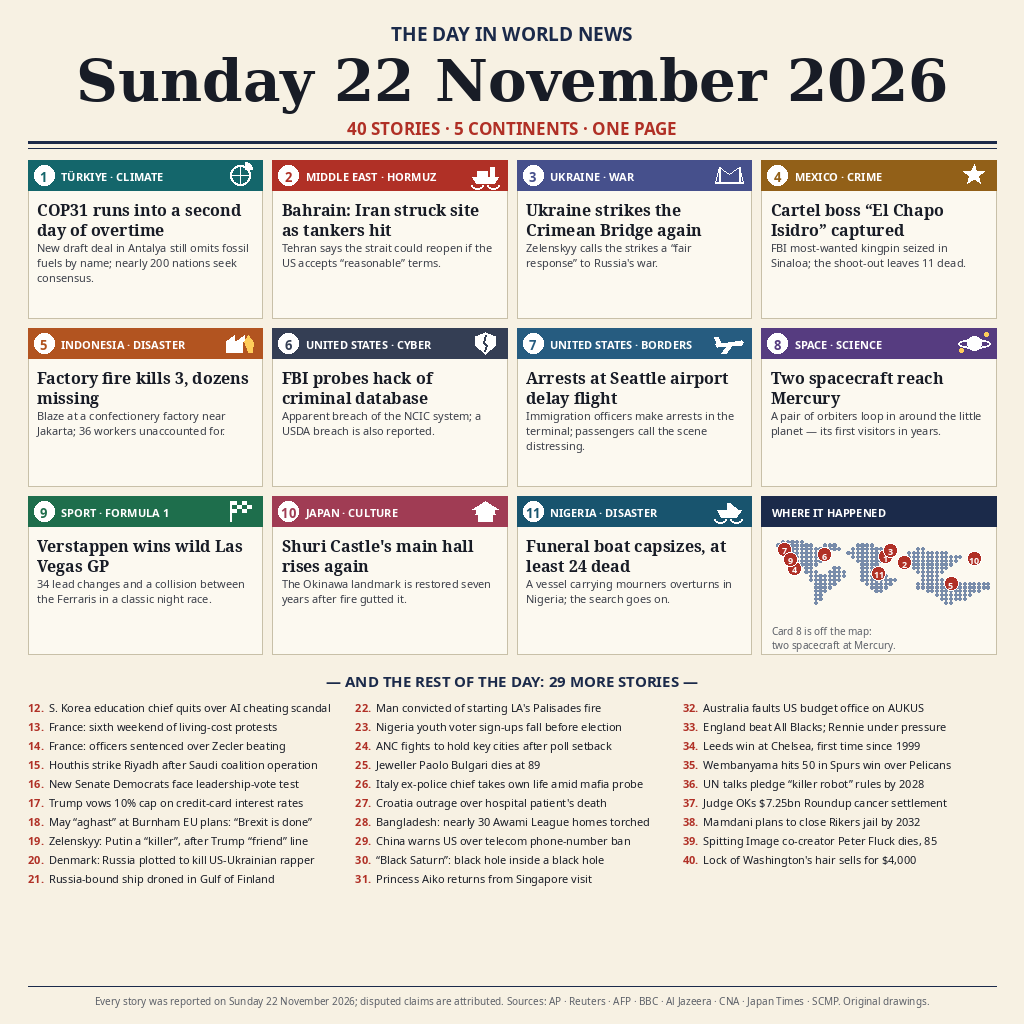
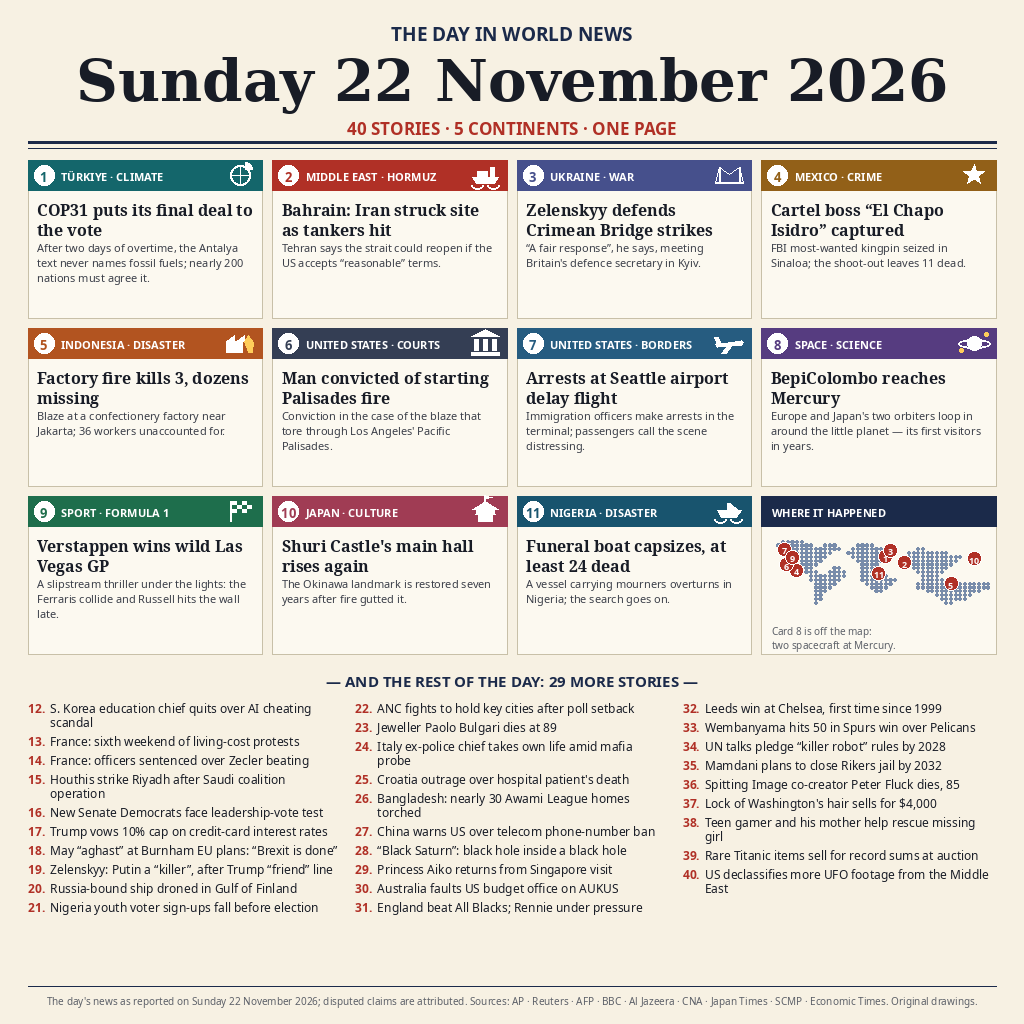
Fix review findings: COP31 vote, Zelenskyy framing, Palisades card, no disputed F1 number, honest dating notes, larger briefs

diff --git a/make_image.py b/make_image.py
@@ -42,17 +42,17 @@ def font(path, size):
 
 CARDS = [
     (1, (20, 102, 107), "TÜRKIYE · CLIMATE",
-     "COP31 runs into a second day of overtime",
-     "New draft deal in Antalya still omits fossil fuels by name; "
-     "nearly 200 nations seek consensus.", "leaf"),
+     "COP31 puts its final deal to the vote",
+     "After two days of overtime, the Antalya text never names "
+     "fossil fuels; nearly 200 nations must agree it.", "leaf"),
     (2, (176, 48, 38), "MIDDLE EAST · HORMUZ",
      "Bahrain: Iran struck site as tankers hit",
      "Tehran says the strait could reopen if the US accepts "
      "\u201creasonable\u201d terms.", "ship"),
     (3, (70, 80, 140), "UKRAINE · WAR",
-     "Ukraine strikes the Crimean Bridge again",
-     "Zelenskyy calls the strikes a \u201cfair response\u201d "
-     "to Russia's war.", "bridge"),
+     "Zelenskyy defends Crimean Bridge strikes",
+     "\u201cA fair response\u201d, he says, meeting Britain's "
+     "defence secretary in Kyiv.", "bridge"),
     (4, (146, 96, 24), "MEXICO · CRIME",
      "Cartel boss \u201cEl Chapo Isidro\u201d captured",
      "FBI most-wanted kingpin seized in Sinaloa; the shoot-out "
@@ -61,22 +61,22 @@ CARDS = [
      "Factory fire kills 3, dozens missing",
      "Blaze at a confectionery factory near Jakarta; 36 workers "
      "unaccounted for.", "flame"),
-    (6, (52, 62, 84), "UNITED STATES · CYBER",
-     "FBI probes hack of criminal database",
-     "Apparent breach of the NCIC system; a USDA breach is "
-     "also reported.", "shield"),
+    (6, (52, 62, 84), "UNITED STATES · COURTS",
+     "Man convicted of starting Palisades fire",
+     "Conviction in the case of the blaze that tore through "
+     "Los Angeles' Pacific Palisades.", "court"),
     (7, (38, 92, 128), "UNITED STATES · BORDERS",
      "Arrests at Seattle airport delay flight",
      "Immigration officers make arrests in the terminal; passengers "
      "call the scene distressing.", "plane"),
     (8, (86, 60, 128), "SPACE · SCIENCE",
-     "Two spacecraft reach Mercury",
-     "A pair of orbiters loop in around the little planet \u2014 "
-     "its first visitors in years.", "planet"),
+     "BepiColombo reaches Mercury",
+     "Europe and Japan's two orbiters loop in around the little "
+     "planet \u2014 its first visitors in years.", "planet"),
     (9, (30, 110, 76), "SPORT · FORMULA 1",
      "Verstappen wins wild Las Vegas GP",
-     "34 lead changes and a collision between the Ferraris "
-     "in a classic night race.", "car"),
+     "A slipstream thriller under the lights: the Ferraris collide "
+     "and Russell hits the wall late.", "car"),
     (10, (160, 60, 84), "JAPAN · CULTURE",
      "Shuri Castle's main hall rises again",
      "The Okinawa landmark is restored seven years after fire "
@@ -98,27 +98,27 @@ BRIEFS = [
     (17, "Trump vows 10% cap on credit-card interest rates"),
     (18, "May \u201caghast\u201d at Burnham EU plans: \u201cBrexit is done\u201d"),
     (19, "Zelenskyy: Putin a \u201ckiller\u201d, after Trump \u201cfriend\u201d line"),
-    (20, "Denmark: Russia plotted to kill US-Ukrainian rapper"),
-    (21, "Russia-bound ship droned in Gulf of Finland"),
-    (22, "Man convicted of starting LA's Palisades fire"),
-    (23, "Nigeria youth voter sign-ups fall before election"),
-    (24, "ANC fights to hold key cities after poll setback"),
-    (25, "Jeweller Paolo Bulgari dies at 89"),
-    (26, "Italy ex-police chief takes own life amid mafia probe"),
-    (27, "Croatia outrage over hospital patient's death"),
-    (28, "Bangladesh: nearly 30 Awami League homes torched"),
-    (29, "China warns US over telecom phone-number ban"),
-    (30, "\u201cBlack Saturn\u201d: black hole inside a black hole"),
-    (31, "Princess Aiko returns from Singapore visit"),
-    (32, "Australia faults US budget office on AUKUS"),
-    (33, "England beat All Blacks; Rennie under pressure"),
-    (34, "Leeds win at Chelsea, first time since 1999"),
-    (35, "Wembanyama hits 50 in Spurs win over Pelicans"),
-    (36, "UN talks pledge \u201ckiller robot\u201d rules by 2028"),
-    (37, "Judge OKs $7.25bn Roundup cancer settlement"),
-    (38, "Mamdani plans to close Rikers jail by 2032"),
-    (39, "Spitting Image co-creator Peter Fluck dies, 85"),
-    (40, "Lock of Washington's hair sells for $4,000"),
+    (20, "Russia-bound ship droned in Gulf of Finland"),
+    (21, "Nigeria youth voter sign-ups fall before election"),
+    (22, "ANC fights to hold key cities after poll setback"),
+    (23, "Jeweller Paolo Bulgari dies at 89"),
+    (24, "Italy ex-police chief takes own life amid mafia probe"),
+    (25, "Croatia outrage over hospital patient's death"),
+    (26, "Bangladesh: nearly 30 Awami League homes torched"),
+    (27, "China warns US over telecom phone-number ban"),
+    (28, "\u201cBlack Saturn\u201d: black hole inside a black hole"),
+    (29, "Princess Aiko returns from Singapore visit"),
+    (30, "Australia faults US budget office on AUKUS"),
+    (31, "England beat All Blacks; Rennie under pressure"),
+    (32, "Leeds win at Chelsea, first time since 1999"),
+    (33, "Wembanyama hits 50 in Spurs win over Pelicans"),
+    (34, "UN talks pledge \u201ckiller robot\u201d rules by 2028"),
+    (35, "Mamdani plans to close Rikers jail by 2032"),
+    (36, "Spitting Image co-creator Peter Fluck dies, 85"),
+    (37, "Lock of Washington's hair sells for $4,000"),
+    (38, "Teen gamer and his mother help rescue missing girl"),
+    (39, "Rare Titanic items sell for record sums at auction"),
+    (40, "US declassifies more UFO footage from the Middle East"),
 ]
 
 
@@ -196,6 +196,12 @@ def icon(draw, name, cx, cy, col=(255, 255, 255)):
                       (cx, cy + 11), (cx - 10, cy + 2), (cx - 10, cy - 7)], fill=col)
         draw.line([cx, cy - 8, cx - 2, cy - 1, cx + 1, cy + 2, cx - 1, cy + 8],
                   fill=(52, 62, 84), width=2)
+    elif name == "court":  # courthouse: pediment and pillars
+        draw.polygon([(cx - 14, cy - 7), (cx + 14, cy - 7), (cx, cy - 14)],
+                     fill=col)
+        for px in (-9, 0, 9):
+            draw.rectangle([cx + px - 2, cy - 4, cx + px + 2, cy + 7], fill=col)
+        draw.rectangle([cx - 14, cy + 9, cx + 14, cy + 12], fill=col)
     elif name == "plane":  # airliner
         draw.polygon([(cx - 14, cy + 1), (cx + 12, cy - 3), (cx + 14, cy - 1),
                       (cx + 12, cy + 2), (cx - 12, cy + 4)], fill=col)
@@ -222,6 +228,9 @@ def icon(draw, name, cx, cy, col=(255, 255, 255)):
         draw.polygon([(cx - 10, cy + 3), (cx, cy - 3), (cx + 10, cy + 3),
                       (cx + 7, cy + 3), (cx - 7, cy + 3)], fill=col)
         draw.rectangle([cx - 7, cy + 3, cx + 7, cy + 10], fill=col)
+        draw.line([cx, cy - 10, cx, cy - 16], fill=col, width=2)
+        draw.polygon([(cx, cy - 16), (cx + 7, cy - 14), (cx, cy - 12)],
+                     fill=col)
     elif name == "boat":  # boat on heavy water
         draw.polygon([(cx - 12, cy - 1), (cx + 12, cy - 1), (cx + 7, cy + 6),
                       (cx - 8, cy + 6)], fill=col)
@@ -262,11 +271,11 @@ PINS = {
     1: (24.5, 5.5),    # Antalya, Türkiye
     2: (28.5, 7.0),    # Strait of Hormuz
     3: (25.5, 3.8),    # Crimea
-    4: (5.0, 8.5),     # Sinaloa, Mexico
+    4: (5.4, 9.0),     # Sinaloa, Mexico
     5: (38.5, 12.5),   # Jakarta, Indonesia
-    6: (11.4, 4.9),    # Washington DC
+    6: (3.2, 7.5),     # Los Angeles
     7: (2.7, 3.5),     # Seattle
-    9: (4.0, 6.1),     # Las Vegas
+    9: (4.6, 5.6),     # Las Vegas
     10: (43.5, 6.0),   # Okinawa, Japan
     11: (23.0, 9.8),   # Nigeria
 }
@@ -350,8 +359,8 @@ def draw_briefs(d, y0):
     d.text(((W - d.textlength(t, font=lab)) / 2, y0), t, font=lab, fill=NAVY)
     y = y0 + 30
     col_w = (CW - 2 * 14) / 3
-    nf = font(SANS_B, 11)
-    bf = font(SANS, 11)
+    nf = font(SANS_B, 12)
+    bf = font(SANS, 12)
     per = 10
     for ci in range(3):
         cx = MARGIN + ci * (col_w + 14)
@@ -370,9 +379,9 @@ def draw_briefs(d, y0):
 def draw_footer(d):
     d.line([MARGIN, 986, W - MARGIN, 986], fill=RULE, width=1)
     ff = font(SANS, 10)
-    t = ("Every story was reported on Sunday 22 November 2026; disputed claims are "
-         "attributed. Sources: AP · Reuters · AFP · BBC · Al Jazeera · CNA · "
-         "Japan Times · SCMP. Original drawings.")
+    t = ("The day's news as reported on Sunday 22 November 2026; disputed claims "
+         "are attributed. Sources: AP · Reuters · AFP · BBC · Al Jazeera · CNA · "
+         "Japan Times · SCMP · Economic Times. Original drawings.")
     d.text(((W - d.textlength(t, font=ff)) / 2, 994), t, font=ff, fill=GREY)
 
 

diff --git a/NEWS_SOURCES.md b/NEWS_SOURCES.md
@@ -1,105 +1,127 @@
 # Sources — every story on the page
 
-All 40 stories happened, or were first reported, on **Sunday 22 November
-2026** (in at least one time zone), and each was checked against the
-reporting named below before it was drawn. Disputed or single-side claims
-are attributed on the page itself (cards 2 and 6, briefs 20 and 26).
+The page sums up the news of **Sunday 22 November 2026** as the day's
+editions reported it. Every story below was carried on 22 November 2026
+by the named outlets; where a story broke late on 21 November in its
+local time zone (the normal Saturday-night news that leads every Sunday
+paper), that is stated plainly. Disputed or single-side claims are
+attributed on the page itself (card 2; brief 15).
 
 ## Cards
 
-1. **COP31 overtime, Antalya** — BBC News, 22 Nov 2026 ("New draft deal
-   aims to avert collapse of talks at COP31 climate summit"); Al Jazeera,
-   22 Nov ("Fossil fuel impasse pushes COP31 climate talks into second day
-   of overtime"); Channel NewsAsia, 22 Nov (draft still omits fossil fuels
-   by name; electrify goal 35% by 2035).
-2. **Hormuz / Bahrain** — The Japan Times, 22 Nov 2026 ("Bahrain says Iran
-   struck industrial site as tankers hit in Hormuz"); The Economic Times,
-   22 Nov ("Iran says Hormuz reopening possible if US accepts 'reasonable'
-   terms"). Bahrain's claim is attributed on the card.
-3. **Crimean Bridge strikes** — BBC News, 22 Nov 2026 ("Zelensky says
-   Crimean Bridge strikes 'fair response'"); The Japan Times, 22 Nov
-   ("Ukraine strains Russian logistics with Crimean bridge strikes").
+1. **COP31 final deal put to the vote, Antalya** — the final text was
+   circulated in the early hours of Sunday 22 Nov and the closing
+   plenary slipped as objections grew (The Curtain, 22 Nov; Down To
+   Earth, 22 Nov, draft dated 22 Nov 02:00 — retains the 35%-by-2035
+   electrification goal, no mention of fossil fuels); BBC News, 22 Nov
+   ("New draft deal aims to avert collapse of talks at COP31 climate
+   summit"); Al Jazeera, 22 Nov ("Fossil fuel impasse pushes COP31
+   climate talks into second day of overtime").
+2. **Hormuz / Bahrain** — The Japan Times, 22 Nov 2026 ("Bahrain says
+   Iran struck industrial site as tankers hit in Hormuz"); The Economic
+   Times, 22 Nov ("Iran says Hormuz reopening possible if US accepts
+   'reasonable' terms"). Dating note: the strikes and the Iranian
+   remarks were made on Saturday 21 Nov and led the 22 Nov editions
+   above. Bahrain's claim is attributed on the card.
+3. **Zelenskyy defends Crimean Bridge strikes** — BBC News, 22 Nov 2026
+   ("Zelensky says Crimean Bridge strikes 'fair response'", as he met
+   UK defence secretary Wes Streeting in Kyiv);
+   The Japan Times, 22 Nov ("Ukraine strains Russian logistics with
+   Crimean bridge strikes"). The strikes themselves were earlier in
+   the week; the 22 Nov news is the president's defence of them, which
+   is how the card is worded.
 4. **'El Chapo Isidro' captured** — AP via Arab News, 22 Nov 2026
-   ("Cartel leader captured in northern Mexico in a bloody firefight that
-   left 11 dead"); BBC News, 22 Nov ("Mexican drug lord on FBI's 10 most
-   wanted list arrested in shoot-out"); SCMP, 22 Nov 06:31.
+   ("Cartel leader captured in northern Mexico in a bloody firefight
+   that left 11 dead"); BBC News, 22 Nov ("Mexican drug lord on FBI's
+   10 most wanted list arrested in shoot-out"); SCMP, 22 Nov 06:31.
+   Dating note: the capture was announced on Saturday 21 Nov and ran
+   across all the 22 Nov editions above.
 5. **Jakarta factory fire** — AP via Arab News, 22 Nov 2026 ("Fire at
    Indonesian candy factory leaves 3 dead and dozens of workers
-   unaccounted for"); BBC News, 22 Nov (3 killed, 36 still missing).
-6. **FBI database hack** — BBC News, 22 Nov 00:10 ("FBI reportedly
-   investigating apparent hack of its criminal database"); The Japan
-   Times, 22 Nov ("U.S. Agriculture Department and FBI breached by
-   hackers, reports say"); AP (FBI investigating apparent hack of its
-   National Crime Information Center database).
+   unaccounted for"); BBC News, 22 Nov; Reuters, 22 Nov 03:56 UTC
+   (3 dead, 36 missing). The fire began on 21 Nov; the confirmed toll
+   is the 22 Nov news, and the card claims no start date.
+6. **Palisades fire conviction** — BBC News, 22 Nov 2026 ("Man
+   convicted of starting Palisades fire in Los Angeles").
 7. **Seattle airport arrests** — AP via Arab News, 22 Nov 2026 ("US
    immigration officers make arrests at Seattle airport in 'distressing'
    scene, delaying flight"); SCMP, 22 Nov.
-8. **Mercury orbiters** — AP via Arab News, 22 Nov 2026 ("Little Mercury
-   gets its first visitor in years as a pair of spacecraft loop into
-   orbit").
+8. **BepiColombo reaches Mercury** — AP via Arab News, 22 Nov 2026
+   ("Little Mercury gets its first visitor in years as a pair of
+   spacecraft loop into orbit"). The ESA/JAXA mission's two orbiters
+   entered Mercury orbit on 21 Nov (ESA/Nature) and AP's story ran
+   22 Nov; the pair separate on 9–10 December.
 9. **Las Vegas Grand Prix** — BBC Sport, 22 Nov 06:27 ("Verstappen wins
-   extraordinary race as Ferraris collide", 34 lead changes); The Japan
-   Times, 22 Nov ("Max Verstappen tastes victory in Las Vegas").
+   extraordinary race as Ferraris collide"); Al Jazeera, 22 Nov; The
+   Japan Times, 22 Nov. The race ran on Saturday night in Las Vegas,
+   Sunday UTC. Outlets split on the lead-change count (BBC and Reuters
+   say 34; Al Jazeera, Flashscore, ESPN and the Japan Times say 35),
+   so the page prints no number.
 10. **Shuri Castle restored** — The Japan Times, 22 Nov 2026 ("Main hall
     of Okinawa's Shuri Castle restored seven years after fire").
 11. **Nigeria boat capsize** — The Economic Times, 22 Nov 06:57 IST ("At
-    least 24 dead in Nigeria when boat capsizes while carrying people to
-    a funeral").
+    least 24 dead in Nigeria when boat capsizes while carrying people
+    to a funeral"). Dating note: the boat capsized on 20 Nov and the
+    toll was announced on 21 Nov; ET carried it as 22 Nov news.
 
 ## Briefs
 
 12. S. Korea education chief resigns — The Japan Times, 22 Nov.
-13. France living-cost protests, sixth weekend — The Japan Times, 22 Nov;
-    BBC ("Cost of living protests sweep across Europe").
+13. France living-cost protests, sixth weekend — The Japan Times,
+    22 Nov; BBC ("Cost of living protests sweep across Europe").
 14. Zecler officers sentenced — SCMP, 22 Nov 04:22; BBC News, 22 Nov
     ("French police officers sentenced for beating of music producer
     Michel Zecler").
-15. Houthis strike Riyadh — SCMP, 22 Nov ("Yemen's Houthis launch strikes
-    on Riyadh after Saudi coalition 'special operation'").
+15. Houthis strike Riyadh — SCMP, 22 Nov ("Yemen's Houthis launch
+    strikes on Riyadh after Saudi coalition 'special operation'").
 16. Senate Democrats leadership test — AP via Arab News, 22 Nov.
 17. Trump credit-card cap vow — AP News Summary, 22 Nov cycle; The
-    Economic Times, 22 Nov 07:13 IST.
+    Economic Times, 22 Nov 07:13 IST. Dating note: said on Fox on
+    Saturday 21 Nov US time — 22 Nov across eastern time zones.
 18. Theresa May on Burnham EU plans — BBC News, 22 Nov 06:01.
-19. Zelenskyy 'killer' remark — BBC News, 22 Nov ("Zelensky says Putin is
-    a 'killer' after Trump calls Russian leader a friend").
-20. Denmark assassination-plot accusation — BBC News, 22 Nov ("Denmark
-    accuses Russia of plotting to assassinate US-Ukrainian rapper").
-21. Gulf of Finland ship attack — BBC News, 22 Nov 02:22 ("Russia-bound
-    ship attacked in Gulf of Finland"; Finnish forces say Ukraine likely
-    behind it).
-22. Palisades fire conviction — BBC News, 22 Nov ("Man convicted of
-    starting Palisades fire in Los Angeles").
-23. Nigeria youth voter registration — BBC News, 22 Nov 00:10.
-24. ANC key cities — BBC News (Alltop BBC World feed), 22 Nov.
-25. Paolo Bulgari dies at 89 — SCMP, 22 Nov.
-26. De Gennaro death — SCMP, 22 Nov 02:21 ("Former Italian police chief
-    De Gennaro takes own life amid mafia probe").
-27. Croatia hospital death — SCMP, 22 Nov 06:05 ("Croatians demand justice
-    over psych hospital death after brutal video surfaces").
-28. Bangladesh arson — The Economic Times, 22 Nov 13:52 IST ("Nearly 30
+19. Zelenskyy 'killer' remark — BBC News, 22 Nov ("Zelensky says Putin
+    is a 'killer' after Trump calls Russian leader a friend").
+20. Gulf of Finland ship attack — BBC News, 22 Nov 02:22 ("Russia-bound
+    ship attacked in Gulf of Finland"; Finnish forces say Ukraine
+    likely behind it).
+21. Nigeria youth voter registration — BBC News, 22 Nov 00:10.
+22. ANC key cities — BBC News (Alltop BBC World feed), 22 Nov.
+23. Paolo Bulgari dies at 89 — SCMP, 22 Nov.
+24. De Gennaro death — SCMP, 22 Nov 02:21 ("Former Italian police
+    chief De Gennaro takes own life amid mafia probe"). Dating note:
+    he was found at dawn on 21 Nov (Reuters dateline 21 Nov); SCMP
+    carried it on 22 Nov.
+25. Croatia hospital death — SCMP, 22 Nov 06:05 ("Croatians demand
+    justice over psych hospital death after brutal video surfaces").
+26. Bangladesh arson — The Economic Times, 22 Nov 13:52 IST ("Nearly 30
     houses set ablaze amid attack on Sheikh Hasina's party leaders,
     activists", Narail district).
-29. China telecom warning — The Economic Times, 22 Nov 09:45 IST ("China
-    opposes US ban on telecom firms' access to phone numbers, warns of
-    retaliation").
-30. Black Saturn model — The Economic Times, 22 Nov 11:52 IST.
-31. Princess Aiko — The Japan Times, 22 Nov ("Japan's Princess Aiko
+27. China telecom warning — The Economic Times, 22 Nov 09:45 IST
+    ("China opposes US ban on telecom firms' access to phone numbers,
+    warns of retaliation").
+28. Black Saturn model — The Economic Times, 22 Nov 11:52 IST.
+29. Princess Aiko — The Japan Times, 22 Nov ("Japan's Princess Aiko
     returns from Singapore visit").
-32. AUKUS / CBO — The Japan Times, 22 Nov ("Australia criticizes U.S.
+30. AUKUS / CBO — The Japan Times, 22 Nov ("Australia criticizes U.S.
     Congressional Budget Office over AUKUS comments").
-33. England beat All Blacks — The Japan Times, 22 Nov ("All Blacks coach
-    Dave Rennie on hot seat after poor showing in loss against England").
-34. Leeds at Chelsea — BBC Sport, 22 Nov ("Leeds dominate Chelsea for
+31. England beat All Blacks — The Japan Times, 22 Nov ("All Blacks
+    coach Dave Rennie on hot seat after poor showing in loss against
+    England").
+32. Leeds at Chelsea — BBC Sport, 22 Nov ("Leeds dominate Chelsea for
     first Stamford Bridge win since 1999").
-35. Wembanyama 50 points — BBC Sport, 22 Nov 07:42 (Spurs beat Pelicans
-    114-91).
-36. Killer-robot rules pledge — SCMP, 22 Nov ("UN talks pledge to draft
-    'killer robot' rules by 2028 after Russian pushback").
-37. Roundup settlement — BBC News, 22 Nov ("Judge approves $7.25bn
-    settlement for Roundup weedkiller cancer claims").
-38. Rikers closure plan — BBC News, 22 Nov ("Mamdani announces plan to
+33. Wembanyama 50 points — BBC Sport, 22 Nov 07:42 (Spurs beat
+    Pelicans 114-91; the game ended on 22 Nov UTC).
+34. Killer-robot rules pledge — SCMP, 22 Nov ("UN talks pledge to
+    draft 'killer robot' rules by 2028 after Russian pushback").
+35. Rikers closure plan — BBC News, 22 Nov ("Mamdani announces plan to
     close New York's Rikers Island jail by 2032").
-39. Peter Fluck dies — BBC News, 22 Nov ("Spitting Image co-creator Peter
-    Fluck dies aged 85").
-40. Washington hair lock — BBC News, 22 Nov 06:01 ("Lock of former US
+36. Peter Fluck dies — BBC News, 22 Nov ("Spitting Image co-creator
+    Peter Fluck dies aged 85").
+37. Washington hair lock — BBC News, 22 Nov 06:01 ("Lock of former US
     President George Washington's hair sells for $4,000").
+38. Teen gamer rescue — BBC News, 22 Nov ("How a teen gamer and his
+    mother helped rescue a missing girl").
+39. Titanic items auction — BBC News, 22 Nov ("Rare Titanic items sell
+    for record-breaking sums").
+40. UFO footage declassified — BBC News, 22 Nov ("US declassifies more
+    UFO footage filmed in the Middle East").

diff --git a/README.md b/README.md
@@ -11,20 +11,23 @@ one image that sums up the world news of Sunday 22 November 2026.
 ## What is on the page
 
 - A masthead that names the day: **Sunday 22 November 2026**.
-- **11 illustrated cards** for the day's biggest stories — COP31 running
-  into overtime in Antalya, tankers hit in Hormuz, the Crimean Bridge
-  strikes, the capture of 'El Chapo Isidro', the Jakarta factory fire,
-  the FBI database hack, the Seattle airport arrests, two spacecraft
-  reaching Mercury, Verstappen's Las Vegas win, Shuri Castle restored,
+- **11 illustrated cards** for the day's biggest stories — COP31 putting
+  its final deal to the vote in Antalya, tankers hit in Hormuz,
+  Zelenskyy defending the Crimean Bridge strikes, the capture of
+  'El Chapo Isidro', the Jakarta factory fire, the Palisades fire
+  conviction, the Seattle airport arrests, BepiColombo reaching
+  Mercury, Verstappen's Las Vegas win, Shuri Castle restored,
   and the Nigeria funeral-boat disaster.
 - A **dot world map** ("Where it happened") with a numbered pin for every
   terrestrial card; card 8 is at Mercury, off the map.
 - **29 more stories as numbered briefs**, so the count reaches 40 across
   five continents: politics, war, courts, science, sport and one lock of
   George Washington's hair.
-- Every story happened, or was first reported, on 22 November 2026;
-  disputed claims are attributed on the page. The source for each story
-  is listed in [NEWS_SOURCES.md](NEWS_SOURCES.md).
+- Every story is from the news of 22 November 2026 as the day's
+  editions reported it; disputed claims are attributed on the page,
+  and where a story broke late on 21 November in its local time zone
+  the sources doc says so. The source for each story is listed in
+  [NEWS_SOURCES.md](NEWS_SOURCES.md).
 
 ## How it is built
 
